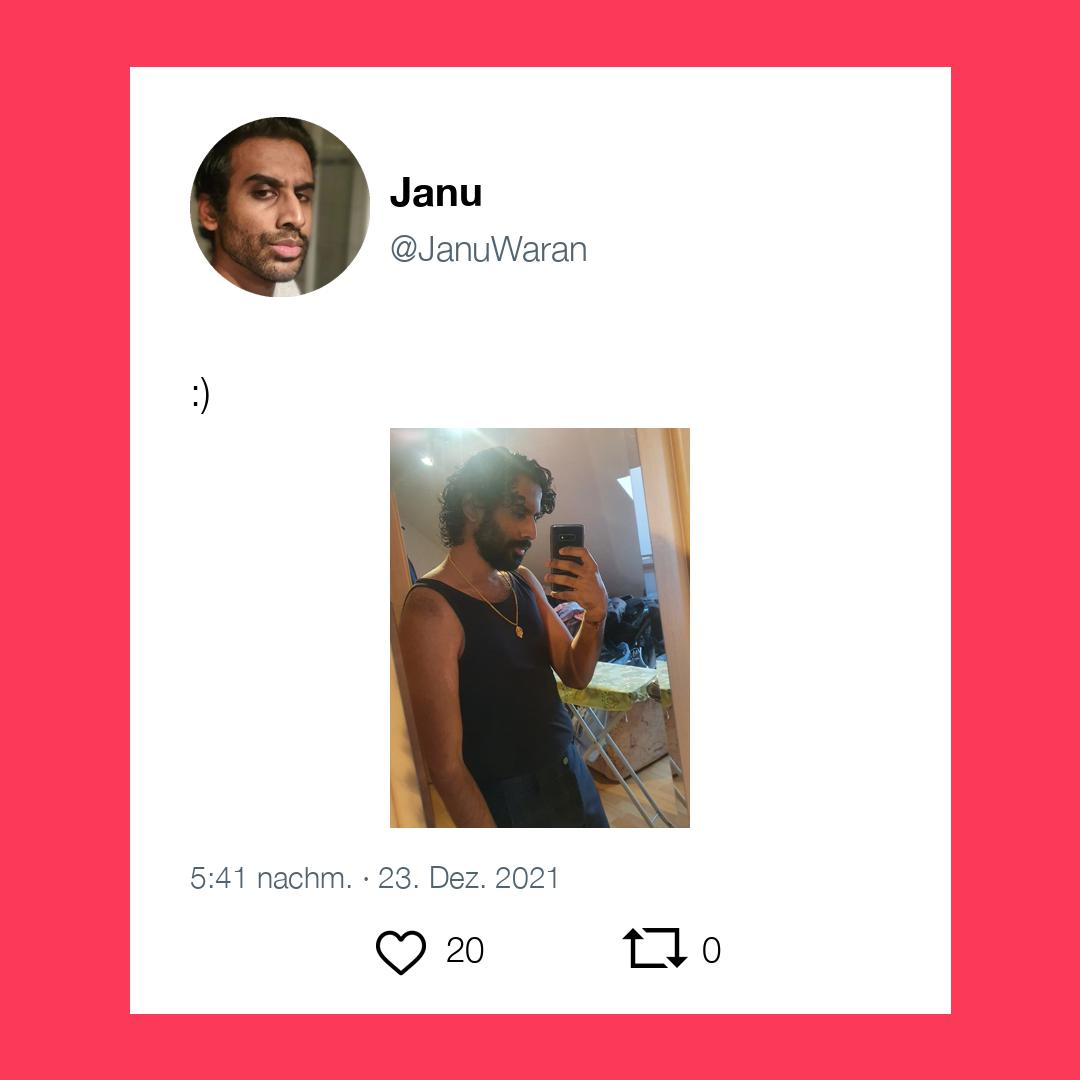
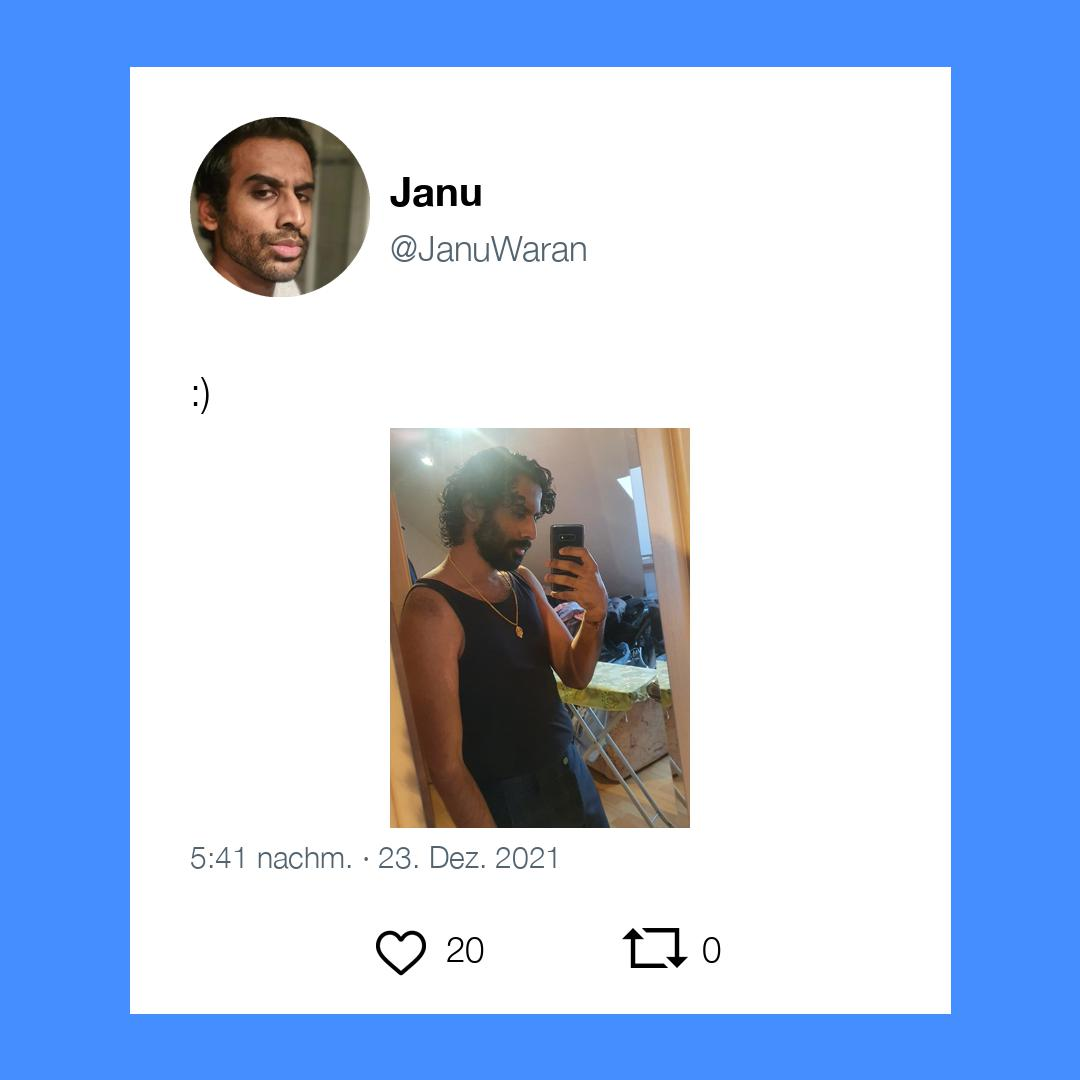
Datum mehr nach oben

diff --git a/main.py b/main.py
@@ -295,7 +295,7 @@ def tweet_to_image(name, username, showFavsRt, show_date, tweet, tweet_timestamp
           if int(tweet_timestamp4[0]) != 12:
             tweet_timestamp4[0] = str(int(tweet_timestamp4[0])-12)
         tweet_timestamp = tweet_timestamp4[0]+":"+tweet_timestamp4[1]+" · "+tweet_timestamp3[0]+". "+months[int(tweet_timestamp2[1])+1]+" "+tweet_timestamp2[0]
-        draw.text((tweet_w, fr_offset-20),tweet_timestamp,(83,100,113),font=date_font)
+        draw.text((tweet_w, fr_offset-40),tweet_timestamp,(83,100,113),font=date_font)
     img.save("tweet_images/" + str(tweet_id) + ".jpg")
     print("tweet_images/" + str(tweet_id) + ".jpg saved.")
 
